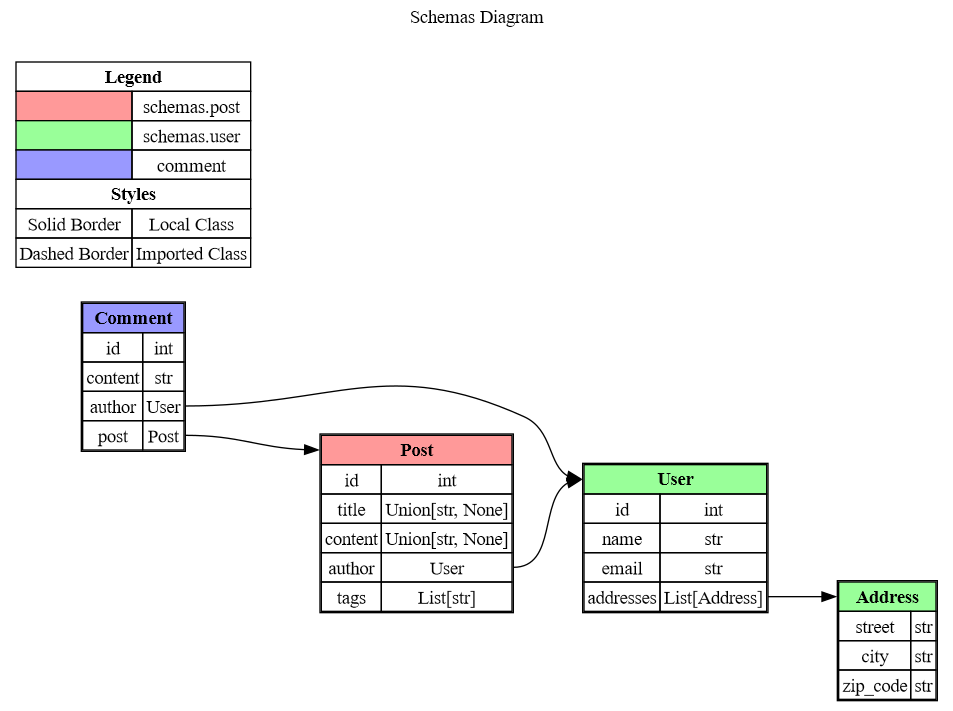
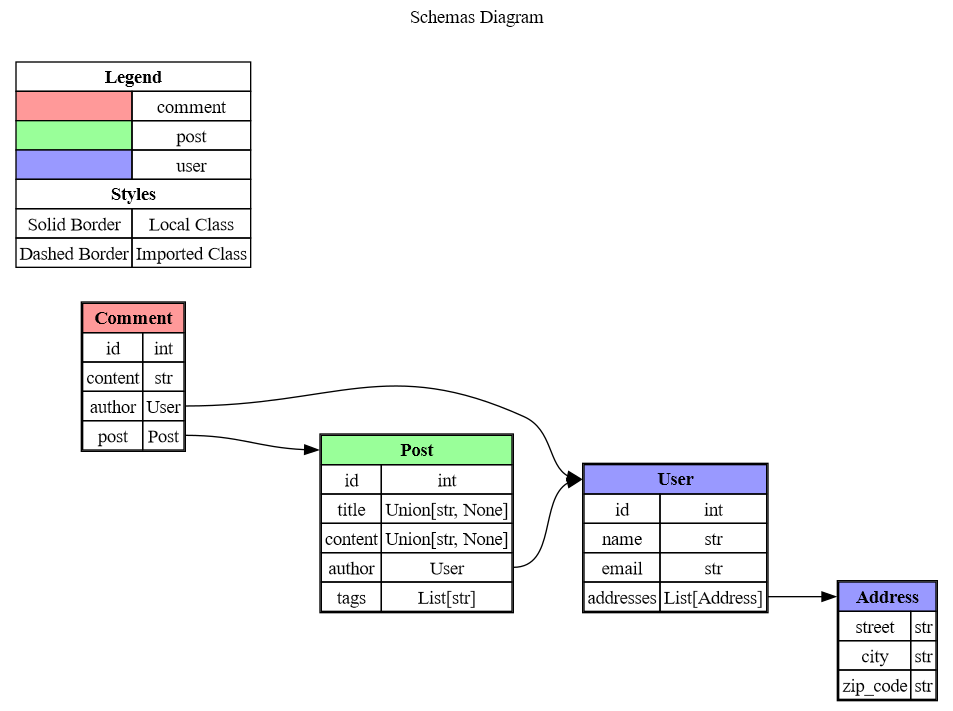
buf fixes

diff --git a/extract_schemas.py b/extract_schemas.py
@@ -16,10 +16,11 @@ except ImportError:
 
 # Define built-in types to exclude
 BUILTIN_TYPES = set(sys.builtin_module_names) | {
-    'int', 'str', 'float', 'bool', 'list', 'dict', 'set', 'tuple', 'None',
+    'int', 'str', 'float', 'bool', 'list', 'dict', 'set', 'tuple', 'NoneType',
     'Any', 'Optional', 'Union', 'Callable', 'Type', 'Iterable', 'Iterator',
     'Sequence', 'Mapping', 'ByteString', 'bytes', 'bytearray', 'memoryview',
-    'Text', 'Complex', 'Number', 'object', 'type'
+    'Text', 'Complex', 'Number', 'object', 'type', 'frozenset', 'property',
+    'staticmethod', 'classmethod', 'function'
 }
 
 def sanitize_name(name: str) -> str:
@@ -34,7 +35,7 @@ def parse_field_type(field_type):
         type_displays = []
         for arg in args:
             if arg is type(None):
-                type_names.append('None')
+                type_names.append('NoneType')
                 type_displays.append('None')
             else:
                 result = parse_field_type(arg)
@@ -99,7 +100,18 @@ def get_project_modules(project_root):
 def build_class_map(project_root):
     class_map = {}
     visited_classes = set()
-    visited_modules = set()
+    processing_queue = []
+
+    from pathlib import Path
+
+    def is_subpath(path, parent):
+        path = Path(path).resolve()
+        parent = Path(parent).resolve()
+        try:
+            path.relative_to(parent)
+            return True
+        except ValueError:
+            return False
 
     def process_class(cls):
         class_name = cls.__name__
@@ -140,7 +152,7 @@ def build_class_map(project_root):
         if module:
             module_file = getattr(module, '__file__', None)
             if module_file:
-                is_local = os.path.commonpath([os.path.realpath(module_file), os.path.realpath(project_root)]) == os.path.realpath(project_root)
+                is_local = is_subpath(module_file, project_root)
             else:
                 is_local = False
         else:
@@ -153,51 +165,59 @@ def build_class_map(project_root):
             'is_enum': issubclass(cls, Enum)
         }
 
-        # Enums don't have field types to process further
+        # Enqueue field types for processing
         if not issubclass(cls, Enum):
-            # Recursively process field types
             for field_info in fields.values():
                 for base_type_name in field_info['types']:
                     if base_type_name and base_type_name not in visited_classes and base_type_name not in BUILTIN_TYPES:
-                        try:
-                            # Try to find the class in already imported modules
-                            base_cls = None
-                            for mod in list(sys.modules.values()):
-                                if hasattr(mod, base_type_name):
-                                    base_cls = getattr(mod, base_type_name)
-                                    break
-                            if not base_cls:
-                                # Attempt to import the module
-                                base_cls = None
-                                try:
-                                    base_cls = getattr(importlib.import_module(base_type_name), base_type_name)
-                                except:
-                                    pass
-                            if base_cls:
-                                process_class(base_cls)
-                            else:
-                                # If the class cannot be imported, add as external
-                                if base_type_name not in class_map:
-                                    class_map[base_type_name] = {
-                                        'fields': {},
-                                        'module': None,
-                                        'local': False,
-                                        'is_enum': False
-                                    }
-                        except Exception as e:
-                            print(f"Error importing class {base_type_name}: {e}")
-                            if base_type_name not in class_map:
-                                class_map[base_type_name] = {
-                                    'fields': {},
-                                    'module': None,
-                                    'local': False,
-                                    'is_enum': False
-                                }
+                        processing_queue.append((base_type_name, cls.__module__))
 
-    def process_module(module_name):
-        if module_name in visited_modules:
-            return
-        visited_modules.add(module_name)
+    def resolve_class(name, current_module_name):
+        # Try to resolve the class in the current module
+        current_module = sys.modules.get(current_module_name)
+        if current_module and hasattr(current_module, name):
+            return getattr(current_module, name)
+
+        # Try to find the class in already imported modules
+        for mod_name, mod in list(sys.modules.items()):
+            if hasattr(mod, name):
+                return getattr(mod, name)
+
+        # Try to import the module where the class might be
+        try:
+            # Assume the class is in a module with the same name
+            mod = importlib.import_module(name)
+            if hasattr(mod, name):
+                return getattr(mod, name)
+        except:
+            pass
+
+        # Try importing the module from the current module's package
+        if current_module_name and '.' in current_module_name:
+            parent_module_name = current_module_name.rsplit('.', 1)[0]
+            try:
+                mod = importlib.import_module(f"{parent_module_name}.{name}")
+                if hasattr(mod, name):
+                    return getattr(mod, name)
+            except:
+                pass
+
+        # Try importing the class from the current module's package
+        try:
+            mod = importlib.import_module(parent_module_name)
+            if hasattr(mod, name):
+                return getattr(mod, name)
+        except:
+            pass
+
+        return None
+
+    # Add project root to sys.path
+    sys.path.insert(0, project_root)
+
+    # Process local modules
+    local_modules = get_project_modules(project_root)
+    for module_name in local_modules:
         try:
             module = importlib.import_module(module_name)
             for name, obj in inspect.getmembers(module, inspect.isclass):
@@ -206,20 +226,24 @@ def build_class_map(project_root):
         except Exception as e:
             print(f"Failed to import module {module_name}: {e}")
 
-    # Add project root to sys.path
-    sys.path.insert(0, project_root)
+    # Process classes in the queue
+    while processing_queue:
+        type_name, current_module_name = processing_queue.pop()
+        if type_name in visited_classes or type_name in BUILTIN_TYPES:
+            continue
 
-    # Process local modules
-    local_modules = get_project_modules(project_root)
-    for module_name in local_modules:
-        process_module(module_name)
-
-    # Process third-party modules as encountered
-    for class_info in list(class_map.values()):
-        if not class_info['local']:
-            module_name = class_info['module']
-            if module_name and module_name not in visited_modules and module_name not in sys.builtin_module_names:
-                process_module(module_name)
+        cls = resolve_class(type_name, current_module_name)
+        if cls:
+            process_class(cls)
+        else:
+            # If the class cannot be resolved, add it as a placeholder
+            visited_classes.add(type_name)
+            class_map[type_name] = {
+                'fields': {},
+                'module': None,
+                'local': False,
+                'is_enum': False
+            }
 
     return class_map
 
@@ -232,7 +256,7 @@ def visualize_schemas(class_map: Dict[str, Dict]):
 
     # Assign colors to modules
     modules = set(info['module'] for info in class_map.values() if info['module'])
-    for module in modules:
+    for module in sorted(modules):
         module_colors[module] = color_palette[color_index % len(color_palette)]
         color_index += 1
 
